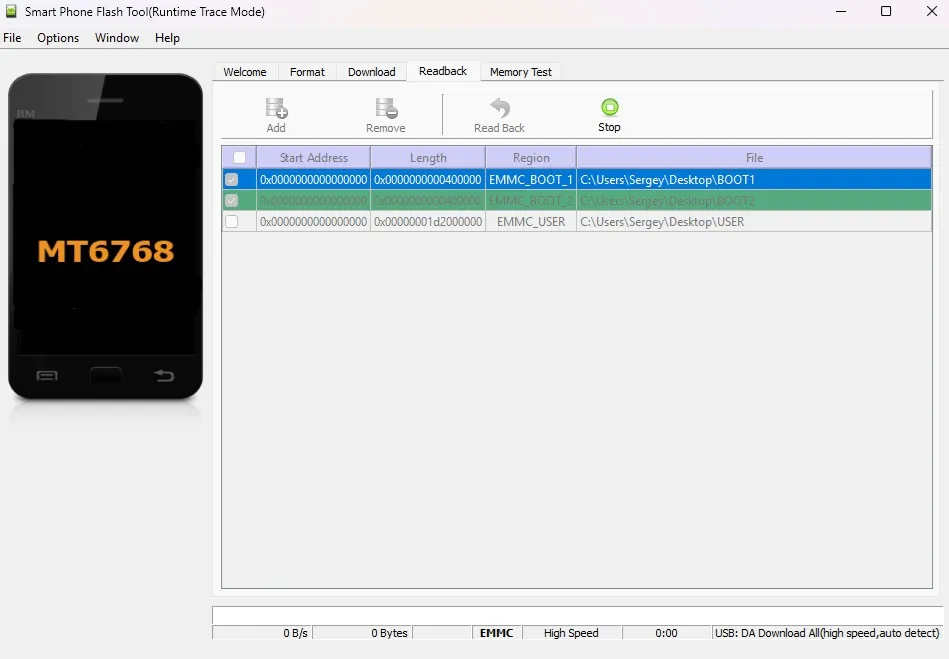
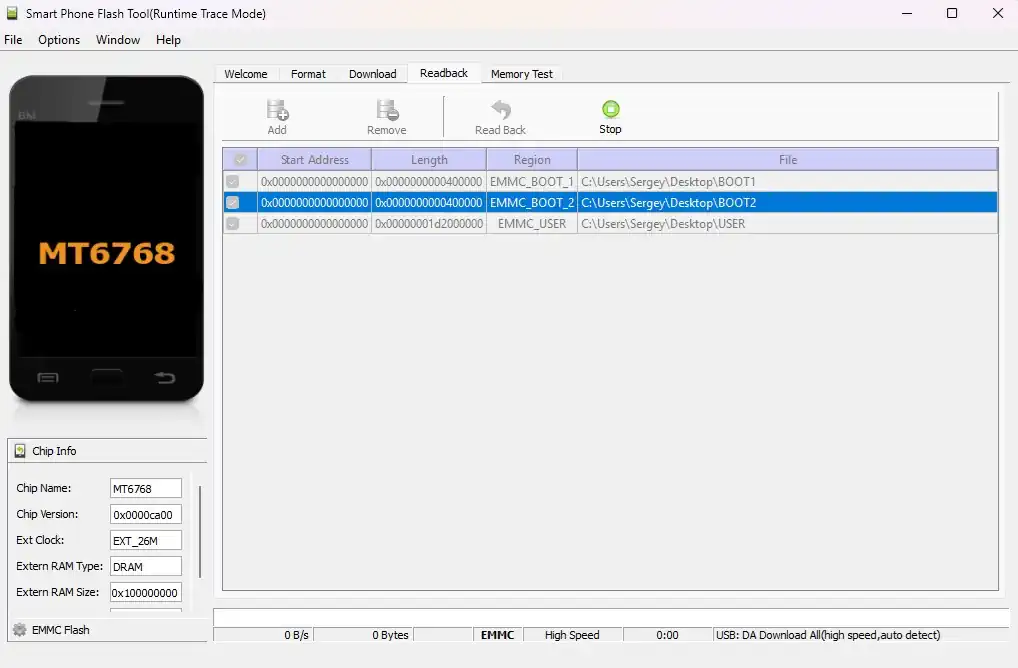
Update readme +minor fixes

diff --git a/src/MT6768/Pipeline.py b/src/MT6768/Pipeline.py
@@ -14,7 +14,7 @@ from src.SuperTool import SuperTool
 
 
 class Pipeline:
-    FINAL_USER_IMG_PATH = "img/updated/USER.img"
+    FINAL_USER_IMG_PATH = "img/result/USER.img"
 
     ORIGINAL_USER_IMG_PATH = "img/original/USER.img"
 
@@ -339,7 +339,23 @@ class Pipeline:
         Pipeline.patch_privileges()
 
     @staticmethod
-    def repack_user():
+    def print_past_time(start_time):
+        end_time = time.perf_counter()
+        elapsed = end_time - start_time
+        minutes = int(elapsed // 60)
+        seconds = int(elapsed % 60)
+        print("\nPatching finished:", f"{minutes:02d}:{seconds:02d} sec.")
+
+    @staticmethod
+    def remove_temps():
+        OtherTool.del_folder("img/original/d_apk")
+        OtherTool.del_file("img/original/apk/emu.apk")
+        OtherTool.del_file("img/original/apk/n64.apk")
+        OtherTool.del_folder("img/original/extracted")
+        OtherTool.del_folder("img/updated")
+
+    @staticmethod
+    def repack_user(is_remove_temps=True):
         start_time = time.perf_counter()
         Pipeline.check_original_result_path_different()
         Pipeline.download_retro_arch_32_1222()
@@ -356,8 +372,6 @@ class Pipeline:
         OtherTool.copy_file(Pipeline.ORIGINAL_USER_IMG_PATH, Pipeline.FINAL_USER_IMG_PATH)
         Pipeline.inject_boot_into_user()
         Pipeline.inject_super_into_user()
-        end_time = time.perf_counter()
-        elapsed = end_time - start_time
-        minutes = int(elapsed // 60)
-        seconds = int(elapsed % 60)
-        print("Patching is finished:", f"{minutes:02d}:{seconds:02d} sec.")
+        if is_remove_temps:
+            Pipeline.remove_temps()
+        Pipeline.print_past_time(start_time)

diff --git a/src/Main.py b/src/Main.py
@@ -4,7 +4,9 @@ from src.MT6768.Pipeline import Pipeline
 if __name__ == '__main__':
 
     # Put USER.img into img/original/USER.img
-    # Put RetroArch_ra32.apk into img/original/apk/RetroArch_ra32.apk, or it will be downloaded automatically
-    # override default result path if needed
-    Pipeline.FINAL_USER_IMG_PATH = r"C:\Users\Sergey\Desktop\M88\USER.img"
+    # Put RetroArch_ra32.apk from (https://buildbot.libretro.com/stable/1.22.2/android/RetroArch_ra32.apk)
+    # into img/original/apk/RetroArch_ra32.apk, or it will be downloaded automatically
+
+    # override default result path (img/result/USER.img) if needed:
+    # Pipeline.FINAL_USER_IMG_PATH = r"C:\Users\Sergey\Desktop\M88\USER.img"
     Pipeline.repack_user()

diff --git a/README.md b/README.md
@@ -201,22 +201,21 @@ The fixes include:
 
 ### How To Fix
 
+There are two options, both of them imply you have M88-P65-V1.8.
+
+> [!WARNING]  
+> Firmware upgrade might potentially brick your device, do it at your own risk, always make a backup to be able to roll back.
+
+Option one is to replace the whole USER area on the eMMC of your stick on the [provided one](https://github.com/SergeyVorobiev/M88-GameStick-Patch/releases/download/v1.0.0/M88USER.7z):
 1. Upgrade the firmware ([Firmware Upgrade](#firmware-upgrade)).
 2. Put RetroArch folder in your SD card. ([RetroArch Setup](#retroarch-setup)).
 3. Read [Game Won't Start](#game-wont-start).
 
-**NOTE**, firmware upgrade might potentially brick your device, do it at your own risk.
+Option two is the same, but you have to make an upgraded image from your original one to use int instead of provided one. 
+It requires more preparation and also gives better chance of success.  
 
-**Optionally**, you can patch your own image (M88-P65-V1.8) using this [script](src/Main.py):
-
-1. Put your USER.img [here](src/img/original).
-2. Open the script in your IDE.
-3. Specify `Pipeline.FINAL_USER_IMG_PATH` or leave default.
-4. Run the script.
-
-After [upgrading](#firmware-upgrade), the stick will work in default (set by manufacturer) mode.
-
-Read [RetroArch Setup](#retroarch-setup) to run it in upgraded mode.
+1. Read and perform steps from [Scripts](#scripts) paragraph.
+2. Perform steps from *Option one* but use your own *USER.img* generated on step 1 instead of provided one.
 
 ### Resources
 
@@ -232,8 +231,12 @@ Read [RetroArch Setup](#retroarch-setup) to run it in upgraded mode.
 
 ## Firmware Upgrade
 
-Steps bellow are intended for sticks based on MediaTek chipsets. If you have different processor model your steps will be similar,
+Steps bellow are intended for sticks based on MediaTek Helio P65 chipset. If you have different processor model your steps will be similar,
 but drivers and tools must be replaced to suit your chip.
+
+> [!NOTE]  
+> If your processor is not Helio P65, neither patched image nor patched files from the scripts are appropriate
+> as they have updated parts related only to mt6768. Use information below only for your own experiments.
 
 The stick supports only **BROM mode** (Boot ROM mode is a low-level mode that allows reading/writing the eMMC flash).
 
@@ -273,48 +276,46 @@ If the provided preloader does not fit then use [mtk client](https://github.com/
 3. Type `mtk printgpt`.
 4. Enter [BROM Mode](#enter-brom-mode).
 
-You will get chip information, eMMC information and extracted preloader.
+You will get chip information, eMMC information and extracted preloader in the mtk client root folder.
 
 \*** *It is a markup file that gives information of where and what is placed on eMMC. 
 Usually a program only needs to know where to begin reading / writing and for how long. 
 Place the scatter and preloader in the same directory.*
 
 ### Read From eMMC
-This operation is not mandatory, but it serves two purposes:
-1. To ensure that the driver and the software are appropriate, allowing you to perform operations on the eMMC.
-2. To back up your original USER image.
+
+> [!WARNING]
+> This operation is mandatory, as only your backup can get your device back to life if it becomes bricked. **Please, Do Not Skip This Step.**
 
 Open flash tool and choose **Download-Agent** and **Scatter**, see image below: 
 
 ![flashTool1](resources/images/flashTool1.webp)
 
-Perform read test to be sure that your preloader and chip model is appropriate. It is safe
-and if your device or preloader is not appropriate it just warns you without any consequences.
-Note that **End Address** must be equal or be bigger than the size of your preloader, edit the scatter if you have unique one with different size:
-
-`partition_size: 0x4cc3b`
-
-Go to **Readback** tab, setup regions as shown in the image below, (check third checkbox to create a full backup), click **Read Back**
-and connect your device as described in [Enter BROM Mode](#enter-brom-mode). You can also find BOOT1 [here](resources/m88/BOOT1), BOOT2 is the same.
+Go to **Readback** tab, setup regions as shown in the image below, click **Read Back**
+and connect your device as described in [Enter BROM Mode](#enter-brom-mode).
+```
+Standard region sizes*:
+EMMC_BOOT_1 - 0x000400000 =     4mb
+EMMC_BOOT_2 - 0x000400000 =     4mb
+EMMC_USER   - 0x1d2000000 =  7456mb
+```
+\* Use `mtk printgpt` command as mentioned above if you have any doubts about region sizes of your stick.
 
 ![flashTool2](resources/images/flashTool2.webp)
 
 If operation fails your preloader / device model is different (popup should show you the actual chip model),
 use *mtk client* as described above to get a correct preloader and info about your device.
 
-If everything is ok, you will get BOOT1, BOOT2 files meaning that the driver and the software is appropriate to your SoC,
+If everything is ok, you will get BOOT1, BOOT2, USER files meaning that the driver and the software is appropriate to your SoC,
 and you can try to upgrade the firmware. 
 
-Note that **Read Back** operation (as described above) is completely safe, you will not
+> [!NOTE]
+> **Read Back** operation (as described above) is completely safe, you will not
 lose anything even if something goes wrong. 
 
-Select third checkbox to back up the whole USER* image, you will get 8GB USER file. It later can be used to restore your
-original firmware, if you occasionally brick the device.
+Use [7-zip](https://www.7-zip.org/download.html) to open your USER* image, it will look like this:
 
-\* *You can add an extension .img by yourself - USER.img (could be useful to be correctly recognized by some software).*
- 
-
-Use [7-zip](https://www.7-zip.org/download.html) to open your USER image, it will look like this:
+\* *You can add an extension .img - USER.img (could be useful to be correctly recognized by some software).*
 
 ![7zip](resources/images/zip.webp)
 
@@ -331,18 +332,9 @@ partition_size: 0x1d2000000
 
 4. Open Flash Tool.
 
-You have two options (both include **FORMATTING** the device). Pick the one you prefer.
+You have two options (both include **FORMATTING**). The first one is more preferred.
 
 Option one:
-1. Select *Download* tab.
-2. Select *Firmware Upgrade* in the dropdown list.
-3. Tap *Download* button.
-4. [Enter BROM Mode](#enter-brom-mode).
-5. Congratulations, you've successfully flashed the stick.*
-
-![flashTool3](resources/images/flashTool3.webp)
-
-Option two:
 1. Select *Format* tab.
 2. Select *Format whole flash except Bootloader*.
 3. Click *Start* button.
@@ -358,6 +350,15 @@ Option two:
 10. Congratulations, you've successfully flashed the stick.*
 
 ![flashTool5](resources/images/flashTool5.webp)
+
+Option two (Use this one only with your own preloader gotten from `mtk printgpt` command):
+1. Select *Download* tab.
+2. Select *Firmware Upgrade* in the dropdown list.
+3. Tap *Download* button.
+4. [Enter BROM Mode](#enter-brom-mode).
+5. Congratulations, you've successfully flashed the stick.*
+
+![flashTool3](resources/images/flashTool3.webp)
 
 \* *Do not touch anything while the flashing is in progress, this may take several minutes.
 If something goes wrong then try again or use the USER.img you backed up [earlier](#read-from-emmc).*
@@ -706,23 +707,51 @@ Core settings for RetroArch platforms: `sdcard/RetroArch/config`.
 
 ## Scripts
 
-Repo has scripts for packing / unpacking / editing images. Examples can be seen [here](src/Main.py). Some scripts use
-linux-like programs:
+To upgrade your own USER.img:
+1. Download this repo.
+2. Install [Python](https://www.python.org/downloads/) and add PATH:
+    * `path_to\Python\Python3xx`
+    * `path_to\Python\Python3xx\Scripts`
+   
+    Check installation, open CMD and type:
+    
+    `pip -V`
 
-1. Install [Cygwin](https://www.cygwin.com/). (It will allow you to invoke many linux-like programs in your cmd, avoiding using WSL, VMWare etc.).
-2. Add PATH to use cygwin programs from any place in your cmd:
-   * `path_to\cygwin64\bin`
-   * `path_to\cygwin64\sbin`
-   * `path_to\cygwin64\usr\sbin`
-3. Look for necessary programs [here](https://cygwin.com/packages/) if they missed.
+    `py --version`
+    
+3. Install IDE [PyCharm](https://www.jetbrains.com/pycharm/download/) or use your preferable one.
+4. Install [JDK](https://adoptium.net/) to allow the scripts to work with *.apk files.
+    
+    Check installation, open CMD and type:
+    
+    `java --version`
+
+5. Install [Cygwin](https://www.cygwin.com/). (It will allow the scripts to invoke many linux-like programs, avoiding using WSL, VMWare etc.).
+
+    Add PATH to use cygwin programs from anywhere:
+    * `path_to\cygwin64\bin`
+    * `path_to\cygwin64\sbin`
+    * `path_to\cygwin64\usr\sbin`
+   
+    Check installation, open CMD and type:
+    
+    `debugfs -V`
+ 
+    `truncate --version`
+
+    `resize2fs`
+    
+    Look for them [here](https://cygwin.com/packages/) if they are missed.
+6. Open the repo in your IDE and go in [here](src/img/original). Put your USER.img (add and extension *.img if needed).
+7. Open [Main](src/Main.py) and click *run button* (green triangle near *if __name__ == '__main__':*).
+8. Upgraded USER.img should appear [here](src/img/result), use it to flash your stick instead of provided one.
+9. Go back to [fix options](#how-to-fix) and perform steps from option one.
 
 For manual image unpacking you can use [7-zip](https://www.7-zip.org/download.html).
 
 To compile / decompile apks use [apktool](https://apktool.org/). Be sure you have [JDK](https://adoptium.net/).
 
 To pack / unpack boot (kernel, ramdisk, dtb) use [magiskboot](https://github.com/alitekin2fx/magiskboot).
-
-*Note: If you just want to get and flash the upgraded image, follow [these steps](#how-to-fix) instead.*
 
 Example:
 
